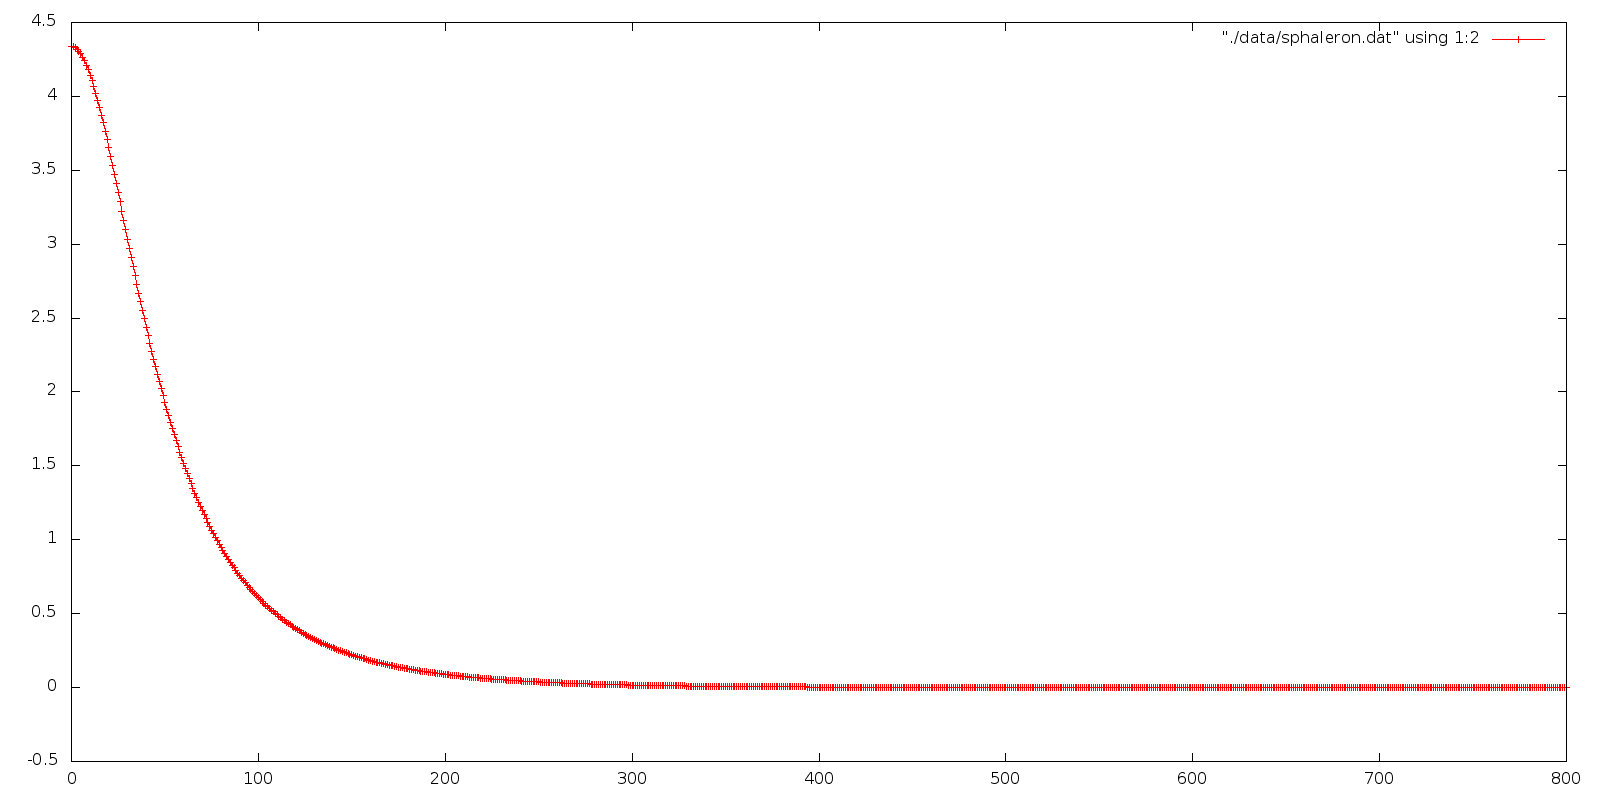
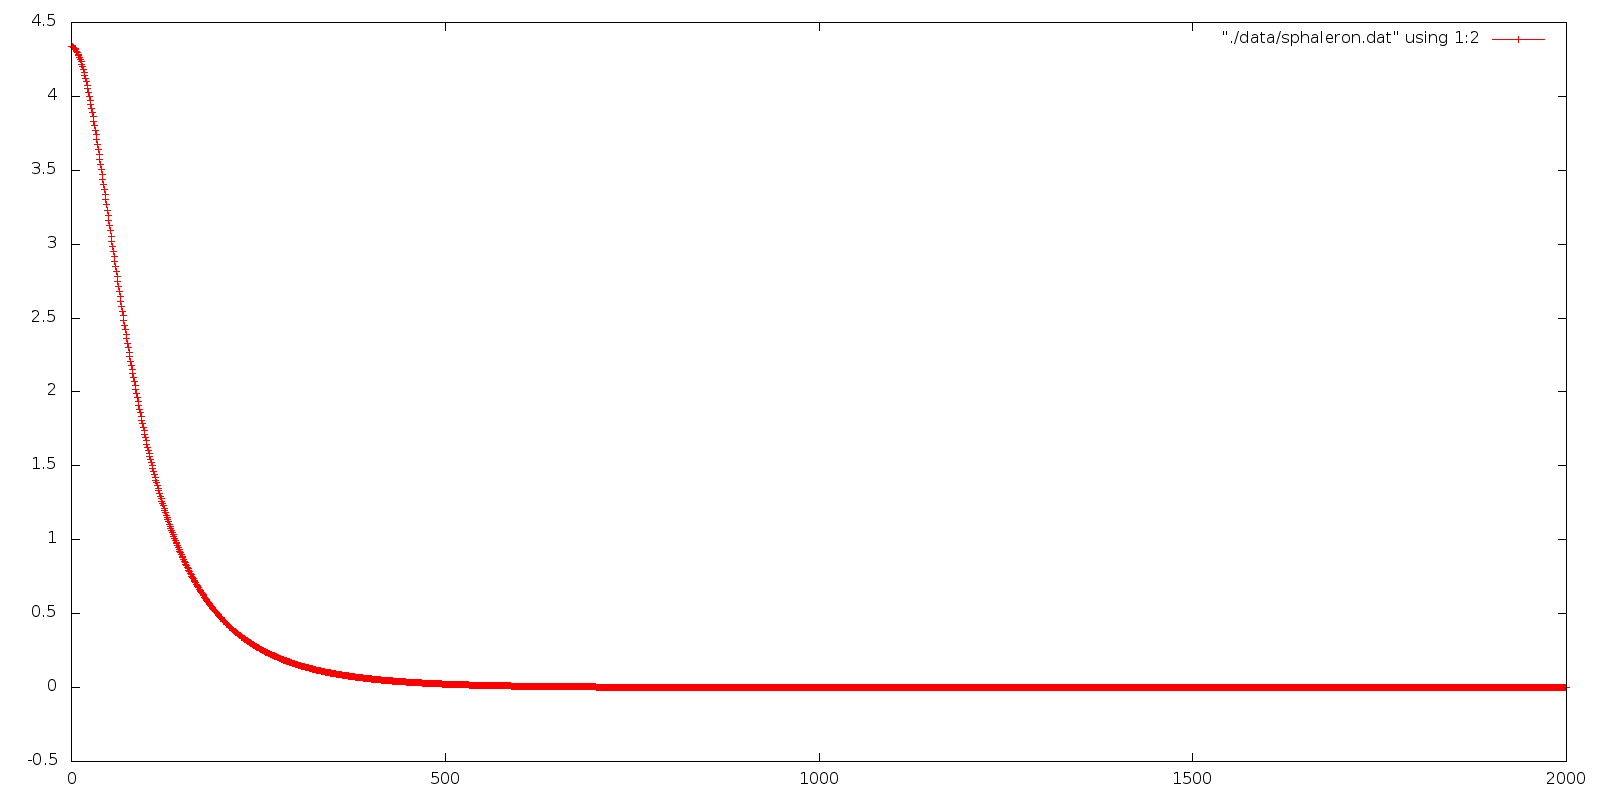
found some good values of N, Nt etc

diff --git a/sphaleronY0.cc b/sphaleronY0.cc
@@ -348,8 +348,8 @@ gsl_odeiv2_system sys = {func, jac, 4, &paramsVoid};
 double F = 1.0, dF;
 double aim = 0.0;
 double closeness = 1.0e-9;
-double r0 = 1.0e-16, r1 = 10.0;
-const unsigned int N = 8e2;
+double r0 = 1.0e-16, r1 = 14.0;
+const unsigned int N = 2e3;
 double dr = r1-r0;
 dr /= (double)N;
 vector<double> y0Vec(N+1), y2Vec(N+1);
@@ -490,8 +490,8 @@ printf("From Matlab, omega^2_- = -15.3060\n\n");
 //in order to calculate E_lin and N_lin
 
 unsigned int Nt = N*3;
-double T = 12.0, amp = -5.0e-3;
-//if (T>1.1*(r1-r0)) { cout << "R is too small compared to T. R = " << r1-r0 << ", T = " << T << endl;}
+double T = 16.0, amp = -5.0e-3;
+if ((T-4.0)>1.1*(r1-r0)) { cout << "R is too small compared to T. R = " << r1-r0 << ", T = " << T << endl;}
 //cout << "amp of negative mode: ";
 //cin >> amp;
 double dt = T/Nt; //equals Dt
